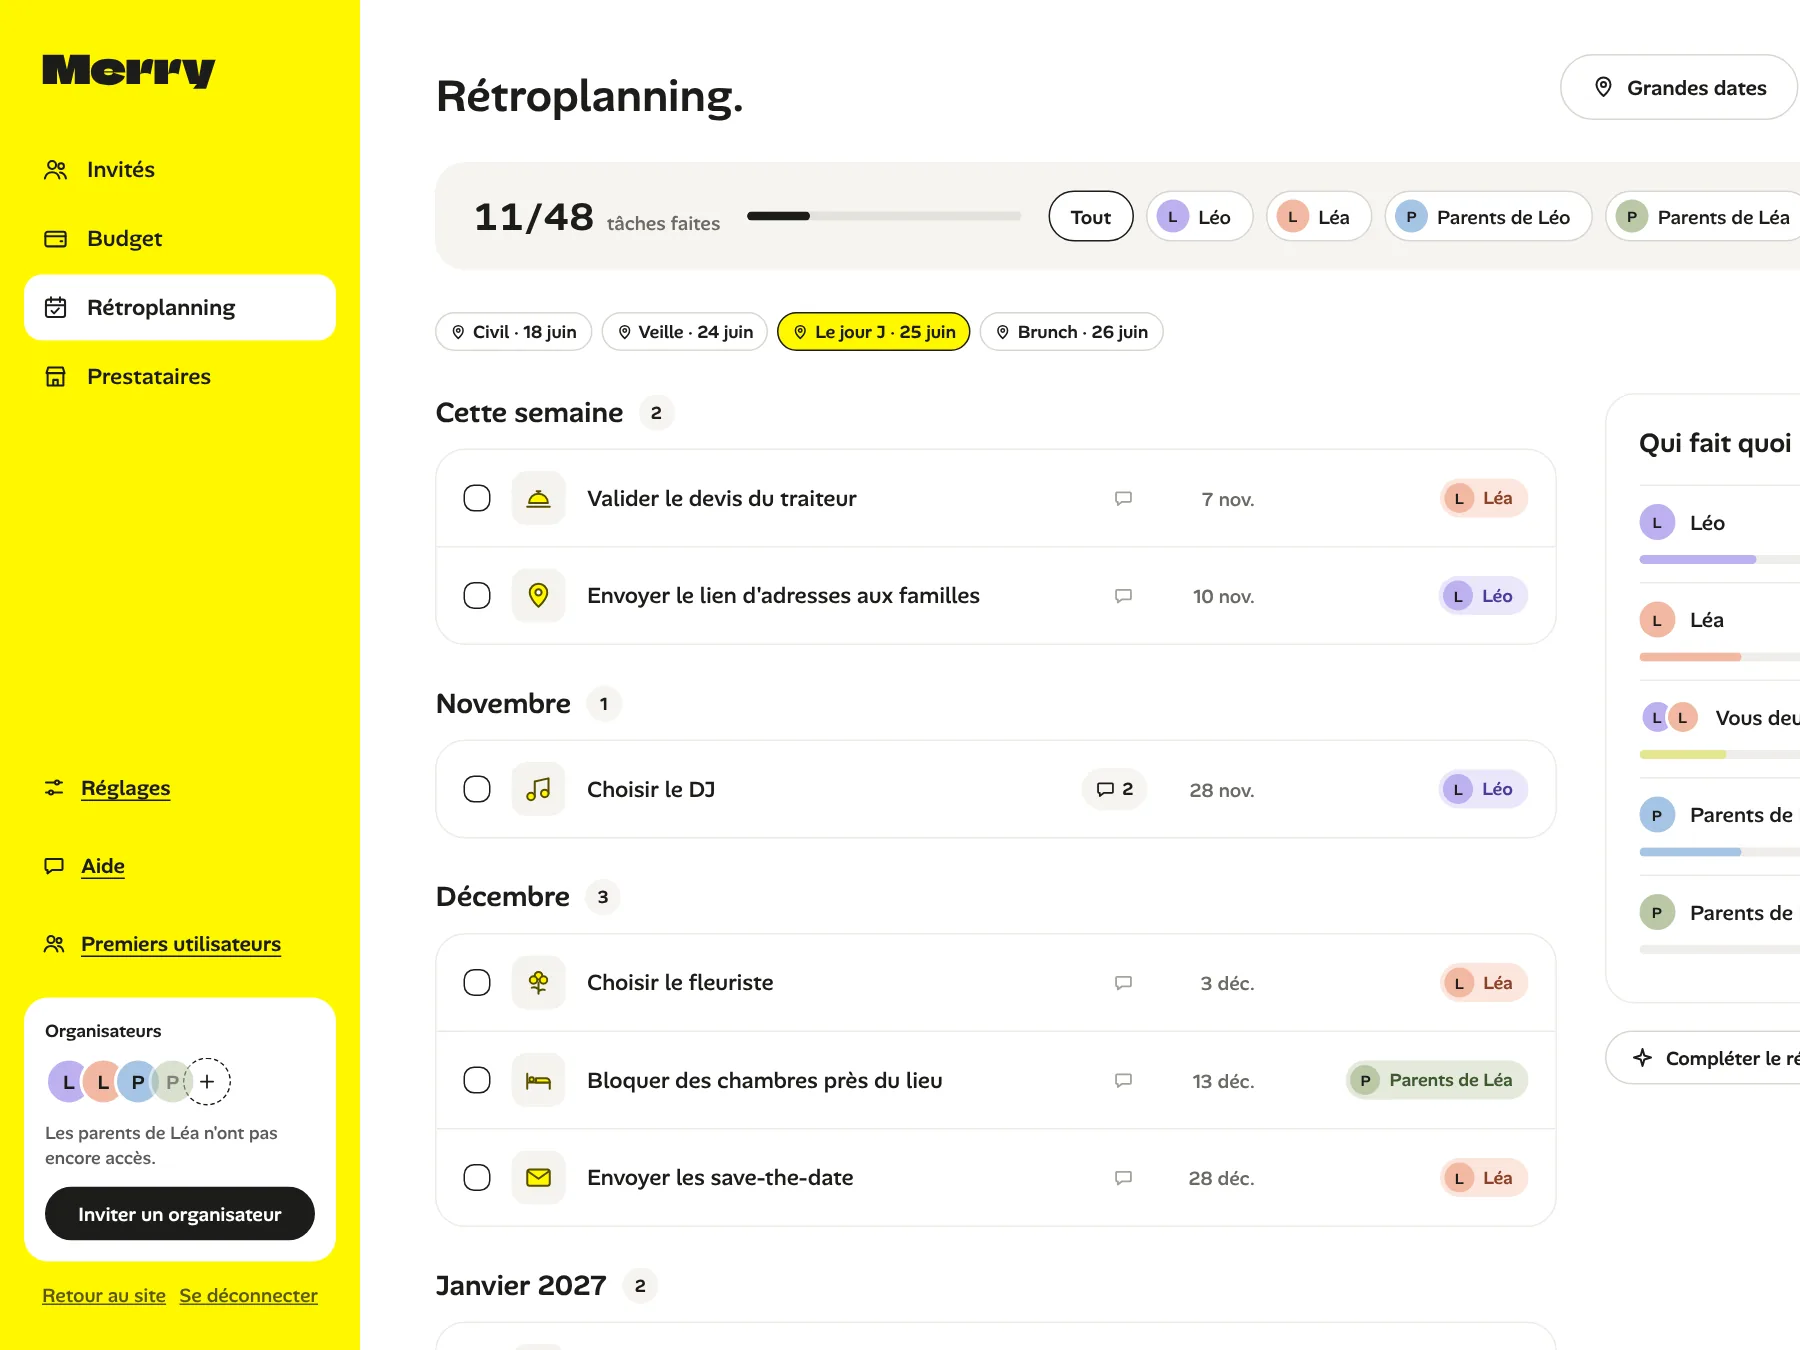
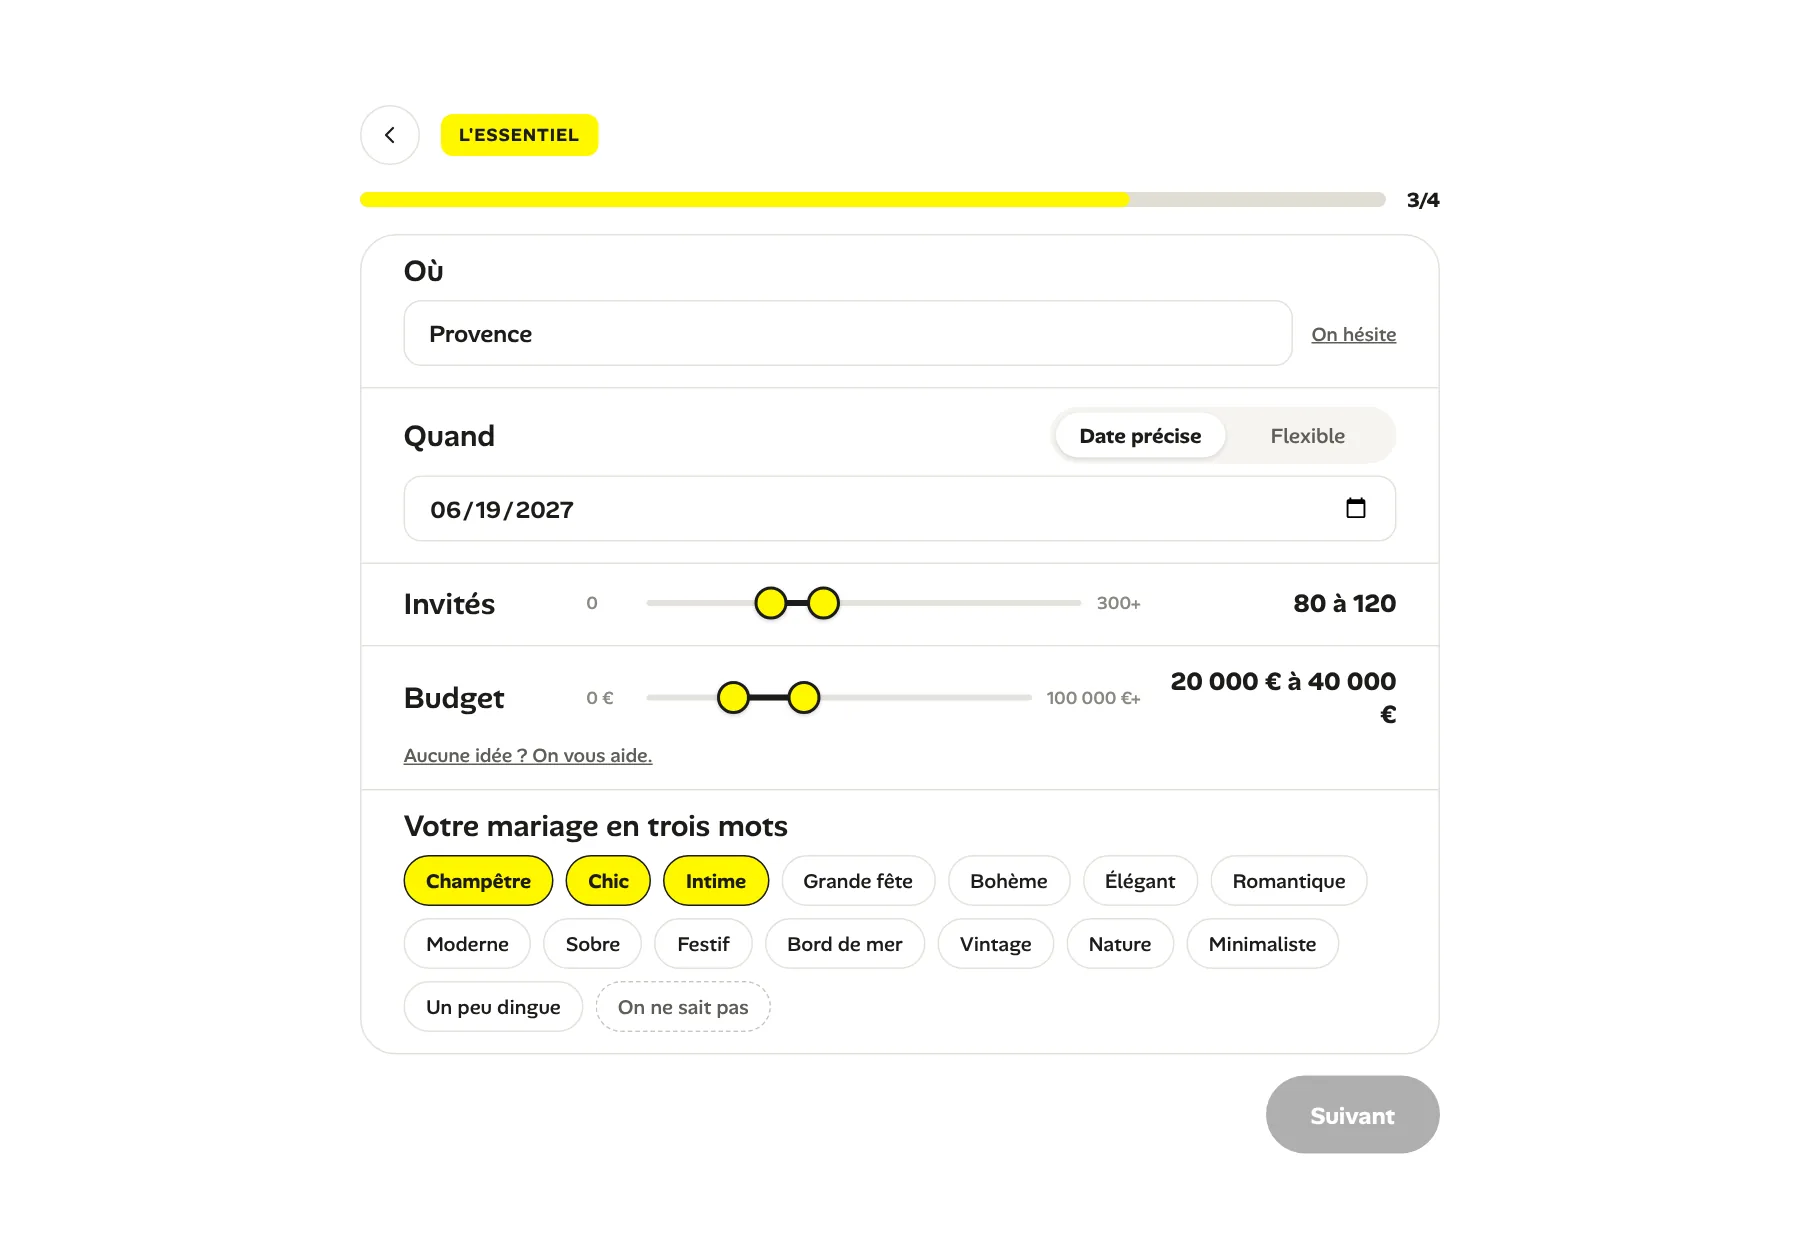
Comment ça marche : écrans fidèles aux textes (questionnaire, page Prestataires, invités)
Claude-Session: https://claude.ai/code/session_01AHuc7TnqCBAr3uqmtYhBYz

diff --git a/app/vitrine/page.js b/app/vitrine/page.js
@@ -5,11 +5,12 @@ import { formatProof, getProof } from "@/lib/vitrine/proof";
 import proposition from "@/lib/vitrine/blocks/proposition";
 import carrousel from "@/lib/vitrine/blocks/carrousel";
 
-// Trois étapes, chacune avec un écran du tableau de bord (public/vitrine/etapes, captures 1800 × 1350)
+// Trois étapes, chacune avec l'écran correspondant (public/vitrine/etapes) : le questionnaire « L'essentiel »
+// de l'onboarding, la page Prestataires du tableau de bord, la liste des invités.
 const STEPS = [
-  ["brief", "Raconte-nous ton mariage.", "Date, lieu, nombre d'invités, budget, ambiance. Merry en tire un rétroplanning et une répartition du budget à ta taille."],
-  ["prestataires", "Reçois des prestataires qui matchent.", "Lieux, traiteurs, photographes, DJ : plusieurs options, libres à ta date, dans ton budget. C'est toi qui choisis."],
-  ["pilotage", "Pilote tout au même endroit.", "Invités, réponses, paiements, documents, site de mariage. À plusieurs, avec tes parents et tes témoins."],
+  ["brief", 1800, 1260, "Raconte-nous ton mariage.", "Date, lieu, nombre d'invités, budget, ambiance. Merry en tire un rétroplanning et une répartition du budget à ta taille."],
+  ["prestataires", 1800, 1350, "Reçois des prestataires qui matchent.", "Lieux, traiteurs, photographes, DJ : plusieurs options, libres à ta date, dans ton budget. C'est toi qui choisis."],
+  ["pilotage", 1800, 1350, "Pilote tout au même endroit.", "Invités, réponses, paiements, documents, site de mariage. À plusieurs, avec tes parents et tes témoins."],
 ];
 
 const FAQ = [
@@ -67,10 +68,10 @@ export default async function VitrineAccueil() {
           </h2>
         </div>
         <ol className="wv-how-g">
-          {STEPS.map(([img, title, text], i) => (
+          {STEPS.map(([img, w, h, title, text], i) => (
             <li key={img} className="wv-how-card">
               <div className="wv-how-shot">
-                <Image src={`/vitrine/etapes/${img}.webp`} alt="" width={1800} height={1350} sizes="(max-width: 760px) 92vw, 30vw" loading={i === 0 ? "eager" : "lazy"} />
+                <Image src={`/vitrine/etapes/${img}.webp`} alt="" width={w} height={h} sizes="(max-width: 760px) 92vw, 30vw" loading={i === 0 ? "eager" : "lazy"} />
               </div>
               <span className="wv-how-n" aria-hidden="true">
                 {i + 1}
